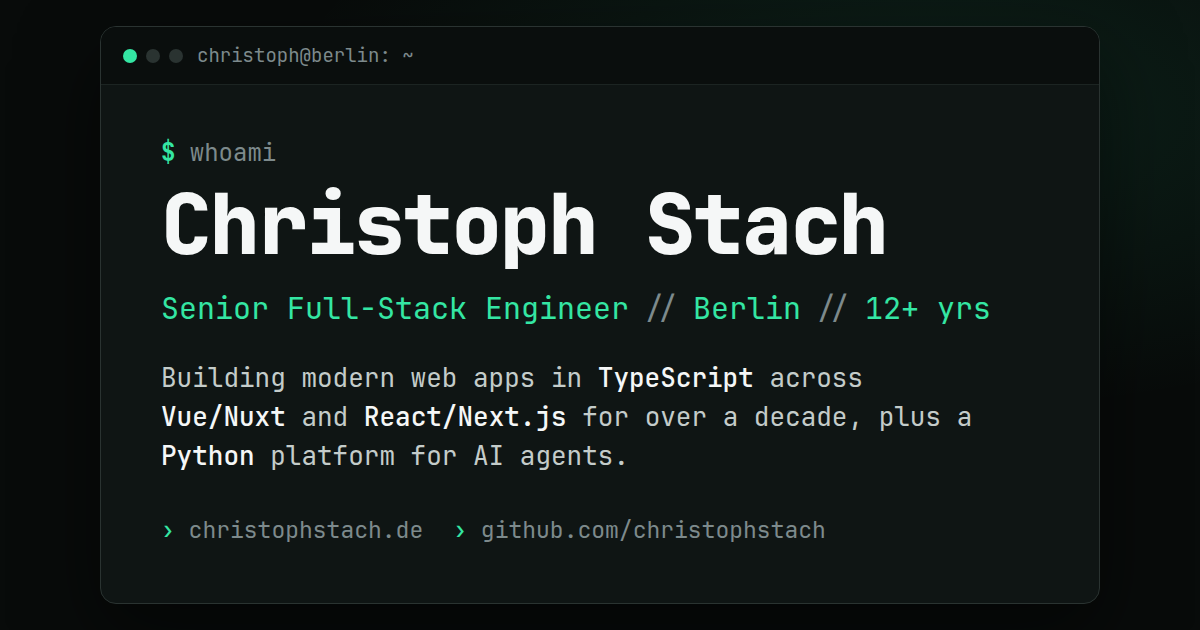
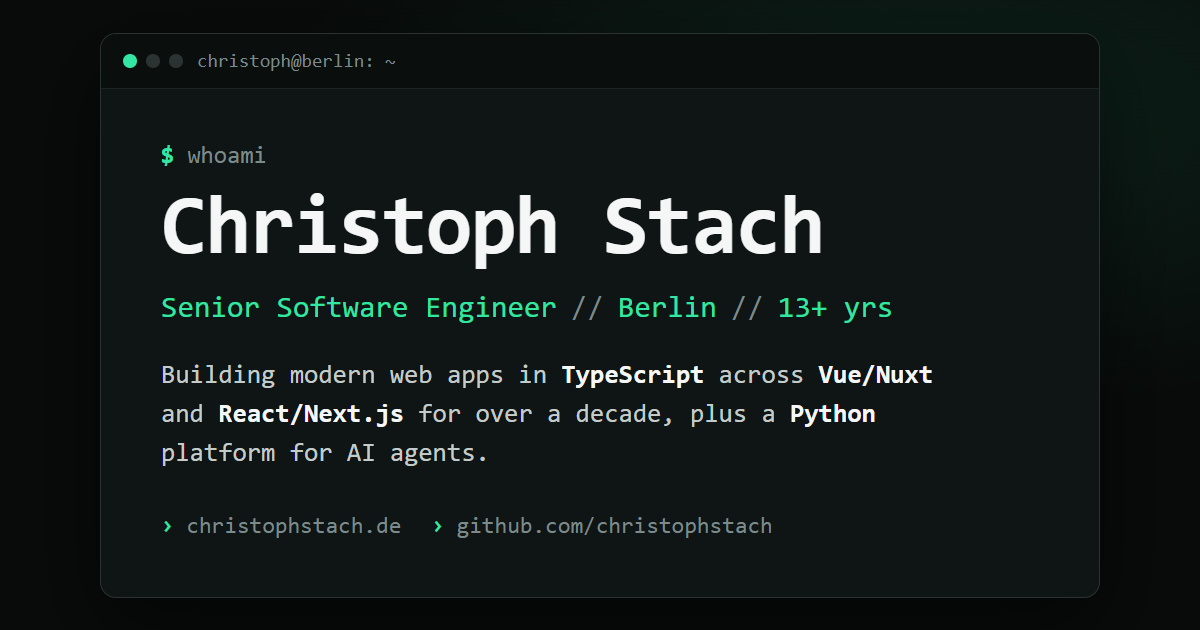
Base the home page on the General variant
Count each company once and derive the years from the jobs.

diff --git a/app/pages/index.vue b/app/pages/index.vue
@@ -4,8 +4,8 @@ import heroImage from "~/assets/images/hero.webp";
 import { useFetch } from "nuxt/app";
 
 useSeoMeta({
-  title: "Senior Full-Stack Engineer in Berlin",
-  ogTitle: "Christoph Stach, Senior Full-Stack Engineer in Berlin",
+  title: "Senior Software Engineer in Berlin",
+  ogTitle: "Christoph Stach, Senior Software Engineer in Berlin",
 });
 
 // Jobs and skill groups live in the database, edited in the desk; the page is
@@ -50,8 +50,13 @@ const monthsEmployed = experience.reduce(
   0,
 );
 
-const years = useCountUp(Math.floor(monthsEmployed / 12));
-const companies = useCountUp(experience.length);
+const yearsEmployed = Math.floor(monthsEmployed / 12);
+
+// A company with several roles on the CV counts once.
+const companyCount = new Set(experience.map((entry) => entry.organization)).size;
+
+const years = useCountUp(yearsEmployed);
+const companies = useCountUp(companyCount);
 const degrees = useCountUp(2);
 const techs = useCountUp(totalSkills);
 </script>
@@ -70,19 +75,18 @@ const techs = useCountUp(totalSkills);
             <p class="terminal__cmd"><span class="terminal__prompt">$</span> whoami</p>
             <h1 class="hero__title">Christoph Stach</h1>
             <p class="hero__role">
-              Senior Full-Stack Engineer<span class="hero__sep">//</span>Berlin<span
-                class="hero__sep"
+              Senior Software Engineer<span class="hero__sep">//</span>Berlin<span class="hero__sep"
                 >//</span
-              >12+ yrs
+              >{{ yearsEmployed }}+ yrs
             </p>
 
             <p class="terminal__cmd"><span class="terminal__prompt">$</span> cat about.txt</p>
             <p class="hero__text">
-              Built modern web apps in <strong>TypeScript</strong> across
-              <strong>Vue/Nuxt</strong> and <strong>React/Next.js</strong> for over a decade, plus a
-              <strong>Python</strong> platform for AI agents. Owned features across the full
-              development cycle and enforced clean, type-safe code, with an eye for usability,
-              accessibility, performance, and detail in component design.
+              Senior software engineer with a strong background in
+              <strong>web development</strong> who owned features across the full development cycle,
+              enforced code quality and kept software maintainable. Built
+              <strong>LLM agents</strong> and worked with AI coding tools. Experience across
+              enterprise, mid-sized and startup environments.
             </p>
 
             <div class="hero__actions">
@@ -165,31 +169,35 @@ const techs = useCountUp(totalSkills);
 
       <div class="about__content">
         <p>
-          At <strong>MBition (Mercedes-Benz)</strong>, I work as a Senior Full Stack Engineer. My
-          home base is the web: I ship product features end-to-end in
-          <strong>Vue and Nuxt</strong> with strict <strong>TypeScript</strong> and zod-validated
-          REST contracts, maintain pnpm monorepos for better DX, and build reliable CI/CD pipelines
-          in <strong>GitLab CI and Azure DevOps</strong>. Alongside that I work in
-          <strong>Python</strong>, building and operating a platform that hosts LLM agents on
-          Kubernetes, providing the shared service, base classes, and CI/CD that agent teams plug
-          their business logic into.
+          At <strong>MBition (Mercedes-Benz)</strong>, I work as a Senior Software Engineer and own
+          the <strong>Python</strong> platform on which multiple Mercedes-Benz teams build and run
+          their LLM agents on <strong>Kubernetes</strong>. Its service is the cloud backend for the
+          in-car voice assistant serving several million vehicles. I re-architected it to fully
+          asynchronous Python, which cut its memory use by 50%, and rebuilt the CI/CD pipelines,
+          which took deployment from a ~2-hour manual process to an automated 15 minutes.
         </p>
 
         <p>
-          Before that, I spent several years at DERICON building frontends with
-          <strong>Vue, Nuxt, React, and Remix</strong>, including a graph-based no-code workflow
-          builder that empowered non-technical users to model and deploy workflows themselves.
-          Earlier in my career I worked as a PHP/JavaScript full-stack developer, modernising legacy
-          systems and improving maintainability and feature velocity.
+          Before that, on the company's speech platform, I built a no-code platform for configuring
+          and deploying speech applications, shipping features end-to-end in
+          <strong>Vue and Nuxt</strong> with strict <strong>TypeScript</strong>. I owned code
+          quality across the team and cut build times by ~50% by consolidating multiple products
+          into a pnpm monorepo.
         </p>
 
         <p>
-          Alongside my professional work, I completed both a <strong>B.Sc.</strong> and
-          <strong>M.Sc. in Applied Computer Science</strong> at
+          Earlier, alongside my studies at DERICON, I built and owned a graph-based no-code workflow
+          builder in <strong>React and Remix</strong>. At SLH, I modernized a legacy PHP application
+          into a modular frontend/backend architecture.
+        </p>
+
+        <p>
+          I hold a <strong>B.Sc.</strong> and an <strong>M.Sc. in Applied Computer Science</strong>
+          from
           <a href="https://www.htw-berlin.de/" target="_blank" rel="noopener" class="text-link"
             >HTW Berlin</a
-          >, specialising in AI, bioinformatics, deep learning, and data science, with research on
-          nanopore-based DNA sequencing and neural style transfer.
+          >, specializing in data science and health computing, with theses on style transfer for
+          low-power hardware and nanopore-based DNA sequencing.
         </p>
       </div>
     </section>

diff --git a/app/app.vue b/app/app.vue
@@ -1,6 +1,6 @@
 <script setup lang="ts">
 const description =
-  "Christoph Stach is a full-stack engineer based in Berlin with over a decade of experience building modern web applications with Vue/Nuxt and React/Next.js, and more recently Python backends for AI and LLM agents.";
+  "Christoph Stach is a senior software engineer based in Berlin with a strong background in web development, who owns the Python platform behind LLM agents at MBition (Mercedes-Benz).";
 
 const siteUrl = "https://christophstach.de";
 const route = useRoute();
@@ -18,7 +18,7 @@ useSeoMeta({
   ogImageWidth: 1200,
   ogImageHeight: 630,
   ogImageType: "image/png",
-  ogImageAlt: "Christoph Stach — Senior Full-Stack Engineer based in Berlin",
+  ogImageAlt: "Christoph Stach — Senior Software Engineer based in Berlin",
   twitterCard: "summary_large_image",
   twitterImage: `${siteUrl}/images/og.png`,
 });
@@ -31,7 +31,7 @@ const personJsonLd = {
   // Crawler-facing copy of the hero portrait: the bundled asset gets a hashed
   // URL, so this needs a stable one. Keep it in sync with assets/images/hero.webp.
   image: `${siteUrl}/images/hero.png`,
-  jobTitle: "Senior Full-Stack Engineer",
+  jobTitle: "Senior Software Engineer",
   description,
   worksFor: { "@type": "Organization", name: "MBition GmbH (Mercedes-Benz)" },
   address: { "@type": "PostalAddress", addressLocality: "Berlin", addressCountry: "DE" },

diff --git a/server/api/cv-home.get.ts b/server/api/cv-home.get.ts
@@ -1,13 +1,17 @@
 import { defineEventHandler } from "h3";
 import { loadCvContent } from "../utils/cv-content";
 
-// What the home page shows of the CV: how long each job ran (for the years of
-// experience) and every skill group. Cached with ISR, renewed by the desk.
+// What the home page shows of the CV: when and where each job ran (for the years of
+// experience and the companies) and every skill group. Cached with ISR, renewed by the desk.
 export default defineEventHandler(async () => {
   const { experience, skills } = await loadCvContent();
 
   return {
-    experience: experience.map((entry) => ({ from: entry.from, to: entry.to })),
+    experience: experience.map((entry) => ({
+      from: entry.from,
+      to: entry.to,
+      organization: entry.organization,
+    })),
     skills,
   };
 });

diff --git a/tools/og-card.html b/tools/og-card.html
@@ -117,7 +117,7 @@
         <div class="cmd"><span class="prompt">$</span> whoami</div>
         <h1>Christoph Stach</h1>
         <div class="role">
-          Senior Full-Stack Engineer<span class="sep">//</span>Berlin<span class="sep">//</span>12+
+          Senior Software Engineer<span class="sep">//</span>Berlin<span class="sep">//</span>13+
           yrs
         </div>
         <div class="desc">
